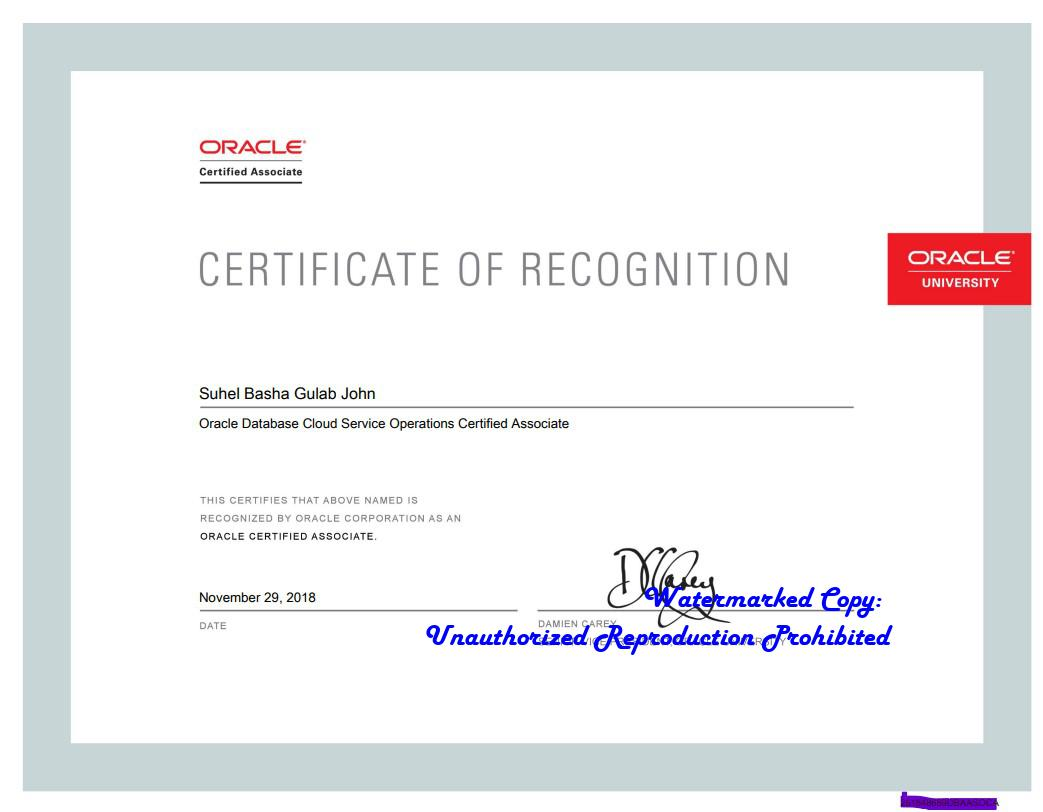
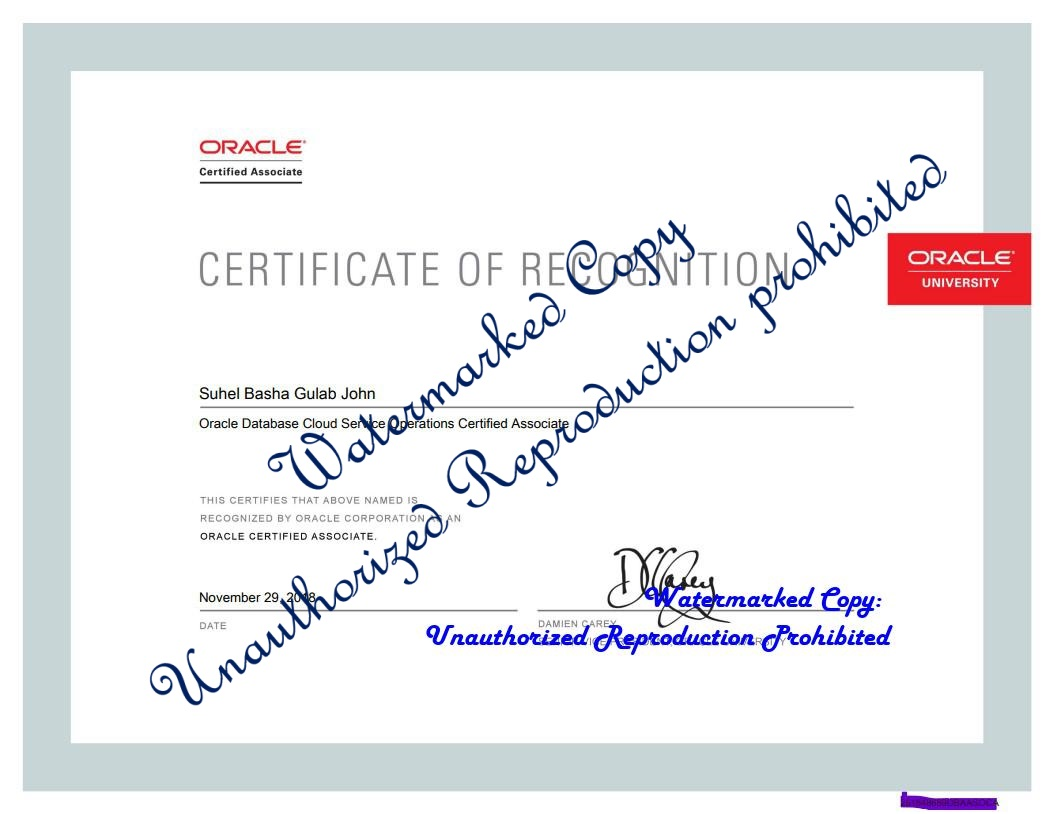
Adding Watermark on Images

Changed region(s): [[0.1227, 0.0308, 1.0, 0.9544], [0.1841, 0.1539, 0.3068, 0.2463], [0.8591, 0.9544, 0.9818, 1.0]]

diff --git a/index.html b/index.html
@@ -27,11 +27,11 @@ table, th, td {
 		<TH style="width:20%" class="second">Snaplogic</TH>
 	</TR>
 	<TR>
-		<TD style="width:20%"><img id="oca" src="./Images/Oracle_OCA.jpg"  alt="OCA" style="width:500px;height:400px;"> </Img></TD>
-		<TD style="width:20%"><img id="ocp" src="./Images/Oracle_OCP.jpg"  alt="OCP" style="width:500px;height:400px;"> </Img></TD>
-		<TD style="width:20%"><img id="snowpro" src="./Images/SnowProc.jpg"  alt="Snowproc Cre" style="width:500px;height:400px;"> </Img></TD>
-		<TD style="width:20%"><img id="pcep" src="./Images/PCEP.jpg"  alt="Python" style="width:500px;height:400px;"> </Img></TD>
-		<TD style="width:20%"><img id="sl1" src="./Images/Snaplogic1.jpg"  alt="SnapLogic" style="width:500px;height:400px;"> </Img></TD>
+		<TD style="width:20%"><img id="oca" src="./Images/Oracle_OCA_wm.jpg"  alt="OCA" style="width:500px;height:400px;"> </Img></TD>
+		<TD style="width:20%"><img id="ocp" src="./Images/Oracle_OCP_wm.jpg"  alt="OCP" style="width:500px;height:400px;"> </Img></TD>
+		<TD style="width:20%"><img id="snowpro" src="./Images/SnowProc_wm.jpg"  alt="Snowproc Cre" style="width:500px;height:400px;"> </Img></TD>
+		<TD style="width:20%"><img id="pcep" src="./Images/PCEP_wm.jpg"  alt="Python" style="width:500px;height:400px;"> </Img></TD>
+		<TD style="width:20%"><img id="sl1" src="./Images/Snaplogic1_wm.jpg"  alt="SnapLogic" style="width:500px;height:400px;"> </Img></TD>
 	</TR>
 </TABLE>
 <br><br>
@@ -45,10 +45,10 @@ table, th, td {
 	</TR>
 	<TR>
 		<TD style="width:20%"><img id="cloud" src="./Images/Cloud_DBA_WM.jpg"  alt="Cloud" style="width:500px;height:400px;"> </Img></TD>
-		<TD style="width:20%"><img id="sl2" src="./Images/Snaplogic2.jpg"  alt="SnapLogic" style="width:500px;height:400px;"> </Img></TD>
-		<TD style="width:20%"><img id="hack1" src="./Images/Hackathon_Winner.JPG"  alt="Hackathon" style="width:500px;height:400px;"> </Img></TD>
-		<TD style="width:20%"><img id="hack2" src="./Images/Hackathon_TI.JPG"  alt="Hackathon" style="width:500px;height:400px;"> </Img></TD>
-		<TD style="width:20%"><img id="cm" src="./Images/con_mgr.jpg"  alt="Connect Manager" style="width:500px;height:400px;"> </Img></TD>
+		<TD style="width:20%"><img id="sl2" src="./Images/Snaplogic2_wm.jpg"  alt="SnapLogic" style="width:500px;height:400px;"> </Img></TD>
+		<TD style="width:20%"><img id="hack1" src="./Images/Hackathon_Winner_wm.JPG"  alt="Hackathon" style="width:500px;height:400px;"> </Img></TD>
+		<TD style="width:20%"><img id="hack2" src="./Images/Hackathon_TI_wm.JPG"  alt="Hackathon" style="width:500px;height:400px;"> </Img></TD>
+		<TD style="width:20%"><img id="cm" src="./Images/con_mgr_wm.jpg"  alt="Connect Manager" style="width:500px;height:400px;"> </Img></TD>
 	</TR>
 </TABLE>
 
